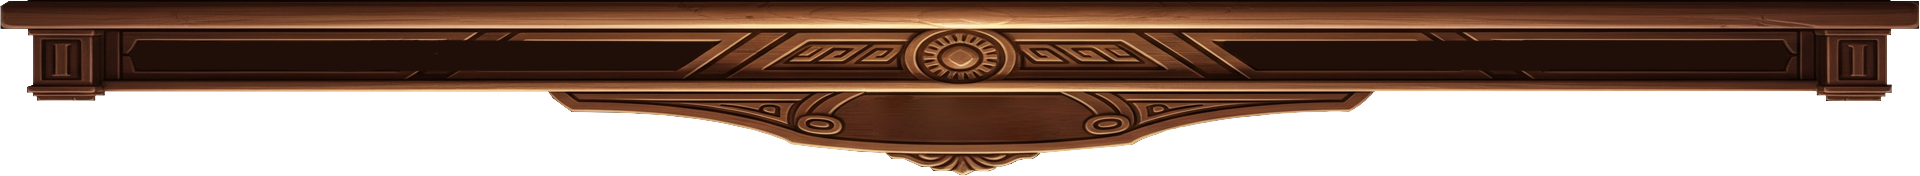
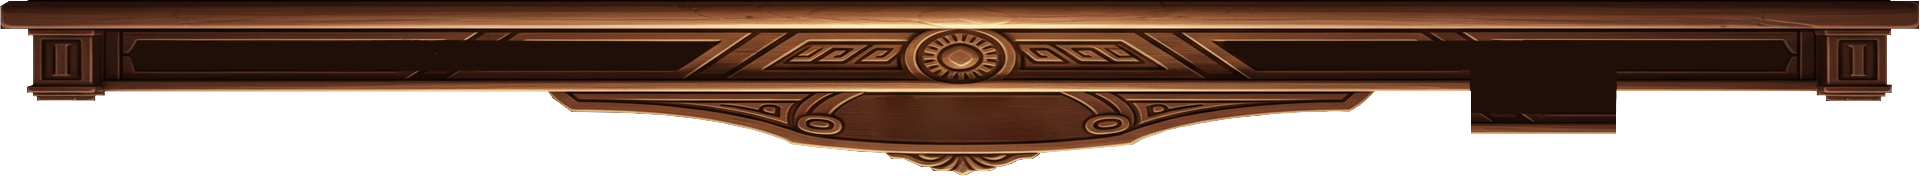
Final tweaking

Changed region(s): [[0.75, 0.4545, 0.8438, 0.767], [0.75, 0.3977, 0.8438, 0.4261]]

diff --git a/15.7/ui.py b/15.7/ui.py
@@ -780,12 +780,17 @@ def draw_ui(frame: np.ndarray, game_state: "GameState") -> None:
         player_name = "Error"
     score = game_state.score
     high_score = game_state.high_score
+    high_score_player = str(getattr(game_state, "high_score_player", "") or "")
+    if len(high_score_player) > 18:
+        high_score_player = high_score_player[:15] + "..."
     player_text = f"Player: {player_name}"
     score_text = f"Score: {score}"
     high_score_text = f"High Score: {high_score}"
+    high_score_player_text = f"By: {high_score_player}" if high_score_player else "By: Unknown"
 
     # Font and color
     font_scale = UIConstants.FONT_SCALE_LARGE
+    detail_font_scale = UIConstants.FONT_SCALE_MEDIUM
     font_color = UIConstants.WHITE
     font_thickness = UIConstants.FONT_THICKNESS
     font = cv2.FONT_HERSHEY_SIMPLEX
@@ -794,11 +799,15 @@ def draw_ui(frame: np.ndarray, game_state: "GameState") -> None:
     (player_tw, player_th), _ = cv2.getTextSize(player_text, font, font_scale, font_thickness)
     (score_tw, score_th), _ = cv2.getTextSize(score_text, font, font_scale, font_thickness)
     (high_score_tw, high_score_th), _ = cv2.getTextSize(high_score_text, font, font_scale, font_thickness)
+    (high_score_player_tw, high_score_player_th), _ = cv2.getTextSize(
+        high_score_player_text, font, detail_font_scale, font_thickness
+    )
 
     # Calculate different vertical positions for each text element
     player_text_y = (BAR_HEIGHT + player_th) // 2 - 35  # Moved down 10px (was -45)
     score_text_y = (BAR_HEIGHT + score_th) // 2 + 30    # Keeping score position
     high_score_text_y = (BAR_HEIGHT + high_score_th) // 2 - 35  # Moved down 10px (was -45)
+    high_score_player_text_y = high_score_text_y + high_score_player_th + 16
 
     # Player name: left aligned at 150px from left
     player_x = 150
@@ -811,6 +820,17 @@ def draw_ui(frame: np.ndarray, game_state: "GameState") -> None:
     # High score: right aligned at 150px from right
     high_score_x = current_width - high_score_tw - 150
     cv2.putText(frame, high_score_text, (high_score_x, high_score_text_y), font, font_scale, font_color, font_thickness, cv2.LINE_AA)
+    high_score_player_x = high_score_x
+    cv2.putText(
+        frame,
+        high_score_player_text,
+        (high_score_player_x, high_score_player_text_y),
+        font,
+        detail_font_scale,
+        font_color,
+        font_thickness,
+        cv2.LINE_AA,
+    )
 
     if game_state.current_state == CurrentGameState.GETTING_PLAYER_NAME:
         # Initialize cursor position if not done yet

diff --git a/15.7/game_state_utils.py b/15.7/game_state_utils.py
@@ -1173,6 +1173,7 @@ def load_initial_state(game_state: Any):
             game_state, "game_mode", "classic"
         )  # Default to classic if mode not set
         game_state.high_score = 0  # Default high score
+        game_state.high_score_player = ""
 
         if os.path.exists(high_score_file) and os.path.getsize(high_score_file) > 0:
             with open(high_score_file, "r") as f:
@@ -1181,6 +1182,7 @@ def load_initial_state(game_state: Any):
                 mode_data = data.get(current_mode, {})
                 if isinstance(mode_data, dict):
                     game_state.high_score = mode_data.get("high_score", 0)
+                    game_state.high_score_player = str(mode_data.get("player", "") or "")
                 else:
                     logger.warning(
                         f"Data for mode '{current_mode}' in high score file is not a dict."
@@ -1194,9 +1196,11 @@ def load_initial_state(game_state: Any):
     except (IOError, json.JSONDecodeError) as e:
         logger.error(f"Failed load high score file '{high_score_file}': {e}")
         game_state.high_score = 0  # Reset on error
+        game_state.high_score_player = ""
     except Exception as e:
         logger.exception(f"Unexpected error loading high score: {e}")
         game_state.high_score = 0  # Reset on error
+        game_state.high_score_player = ""
 
 
 def check_achievements(game_state: Any) -> None:
@@ -1438,6 +1442,7 @@ def reset_game(game_state: Any) -> None:
         "hsv_ranges": getattr(game_state, "hsv_ranges", {}),
         "achievements": getattr(game_state, "achievements", []),
         "high_score": getattr(game_state, "high_score", 0),
+        "high_score_player": getattr(game_state, "high_score_player", ""),
         "win_score": getattr(
             game_state, "win_score", GameConstants.CLASSIC_MODE_WIN_SCORE
         ),

diff --git a/15.7/game_state.py b/15.7/game_state.py
@@ -129,6 +129,8 @@ class GameState:
         self.zones_file_path: str = GameConstants.ZONES_FILE
         self.game_mode: str = "classic"
         self.leaderboard_mode: str = "classic"
+        self.high_score: int = 0
+        self.high_score_player: str = ""
         self.last_player_name: str = ""
         self.auto_record_replays: bool = False
         self.replay_browser_sort: str = "newest"

diff --git a/15.7/game_state_helpers.py b/15.7/game_state_helpers.py
@@ -127,6 +127,7 @@ def save_high_score(game_state: Any):
             f"Updating high score for '{game_state.game_mode}' to {game_state.score} by {player_name}"
         )
         game_state.high_score = game_state.score  # Update attribute too
+        game_state.high_score_player = player_name
     try:
         with open(high_score_file, "w") as f:
             json.dump(data, f, indent=4)
